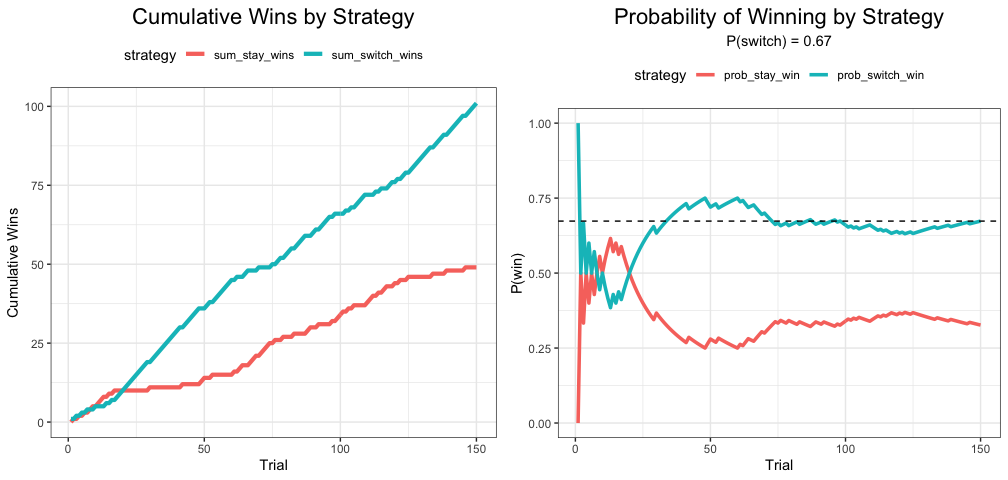
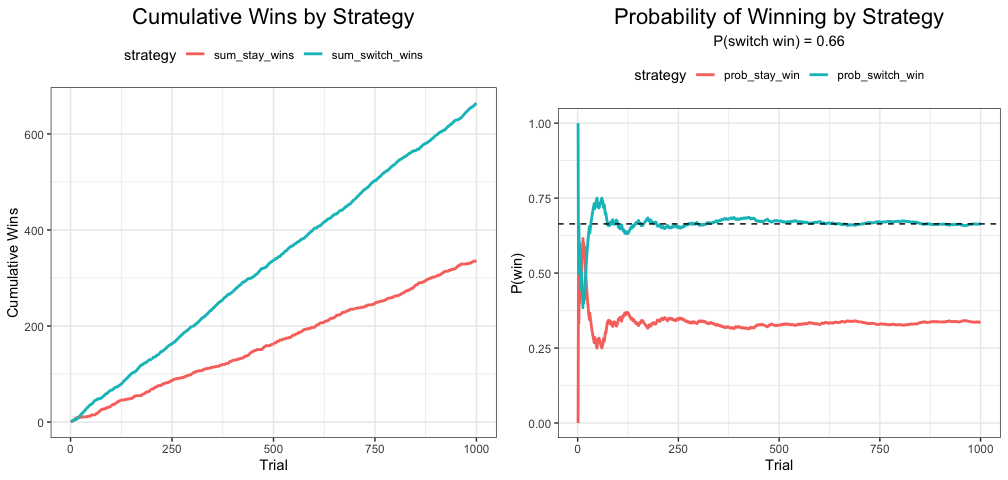
Simplify code
- update with simpler `mh()` function
- `mh()` -> `mh_switch_win()`
- Use logicals and then sums of logicals in tibble
- remove `doors` object, simply use `sample(1:3, 1)`
- expand print width for results tibble

diff --git a/README.md b/README.md
@@ -68,21 +68,19 @@ Perhaps the easiest way to visualize the solution is through simulation.
 ### Code
 
 ``` r
-# run a single Monty-Hall trial
-mh <- function() {
-  true       <- sample(doors, 1)                 # true correct door
-  choose     <- sample(doors, 1)                 # player's door choice: 1/3
-  notchoose  <- doors[doors != choose]           # doors not chosen
-  switch_win <- as.numeric(true %in% notchoose)  # if truth not chosen; win by switching
-  switch_win
+# Single Monty-Hall trial; win by switching?
+mh_switch_win <- function() {
+  true   <- sample(1:3, 1)     # true correct door; 3 possible doors
+  choose <- sample(1:3, 1)     # player's door choice: 1/3
+  # if player choses incorrect door; player wins by switching (TRUE/FALSE)
+  true != choose
 }
 
-doors   <- LETTERS[1:3]                          # doors 'A', 'B', and 'C'
-trials  <- 150                                   # number of trials
+trials  <- 1000                        # number of trials
 sim_res <- tibble::tibble(
   n_sim           = seq_len(trials),
-  switch_win      = replicate(n = trials, mh()),
-  stay_win        = 1 - switch_win,
+  switch_win      = replicate(n = trials, mh_switch_win()),
+  stay_win        = !switch_win,
   sum_switch_wins = cumsum(switch_win),
   sum_stay_wins   = cumsum(stay_win),
   prob_switch_win = sum_switch_wins / (sum_switch_wins + sum_stay_wins),
@@ -91,25 +89,26 @@ sim_res <- tibble::tibble(
 
 # simulation results
 sim_res
-#> # A tibble: 150 x 7
-#>    n_sim switch_win stay_win sum_switch_wins sum_stay_wins prob_switch_win
-#>    <int>      <dbl>    <dbl>           <dbl>         <dbl>           <dbl>
-#>  1     1          1        0               1             0           1    
-#>  2     2          0        1               1             1           0.5  
-#>  3     3          1        0               2             1           0.667
-#>  4     4          0        1               2             2           0.5  
-#>  5     5          1        0               3             2           0.6  
-#>  6     6          0        1               3             3           0.5  
-#>  7     7          1        0               4             3           0.571
-#>  8     8          0        1               4             4           0.5  
-#>  9     9          0        1               4             5           0.444
-#> 10    10          1        0               5             5           0.5  
-#> # … with 140 more rows, and 1 more variable: prob_stay_win <dbl>
+#> # A tibble: 1,000 x 7
+#>    n_sim switch_win stay_win sum_switch_wins sum_stay_wins prob_switch_win prob_stay_win
+#>    <int> <lgl>      <lgl>              <int>         <int>           <dbl>         <dbl>
+#>  1     1 TRUE       FALSE                  1             0           1             0    
+#>  2     2 FALSE      TRUE                   1             1           0.5           0.5  
+#>  3     3 TRUE       FALSE                  2             1           0.667         0.333
+#>  4     4 FALSE      TRUE                   2             2           0.5           0.5  
+#>  5     5 TRUE       FALSE                  3             2           0.6           0.4  
+#>  6     6 FALSE      TRUE                   3             3           0.5           0.5  
+#>  7     7 TRUE       FALSE                  4             3           0.571         0.429
+#>  8     8 FALSE      TRUE                   4             4           0.5           0.5  
+#>  9     9 FALSE      TRUE                   4             5           0.444         0.556
+#> 10    10 TRUE       FALSE                  5             5           0.5           0.5  
+#> # … with 990 more rows
 ```
 
 ### Plot Simulations
 
 ``` r
+# Cumulative wins
 plotsim <- sim_res %>%
   tidyr::pivot_longer(
   cols     = c(sum_switch_wins, sum_stay_wins),
@@ -118,11 +117,11 @@ plotsim <- sim_res %>%
 
 p1 <- plotsim %>%
   ggplot(aes(x = n_sim, y = Wins, color = strategy)) +
-  geom_line(size = 1.5) +
-  ggtitle("Cumulative Wins by Strategy") +
+  geom_line(size = 1) +
   labs(y = "Cumulative Wins", x = "Trial") +
-  theme(legend.position = "top")
+  ggtitle("Cumulative Wins by Strategy")
 
+# Prob winning
 plotsim <- sim_res %>%
   tidyr::pivot_longer(
   cols     = c(prob_switch_win, prob_stay_win),
@@ -131,11 +130,11 @@ plotsim <- sim_res %>%
 
 p2 <- plotsim %>%
   ggplot(aes(x = n_sim, y = prob, color = strategy)) +
-  geom_line(size = 1.25) +
+  geom_line(size = 1) +
   ylim(c(0, 1)) +
   geom_hline(yintercept = sim_res$prob_switch_win[trials], linetype = "dashed") +
   labs(y = "P(win)", x = "Trial",
-       subtitle = sprintf("P(switch) = %0.2f", sim_res$prob_switch_win[trials])) +
+       subtitle = sprintf("P(switch win) = %0.2f", sim_res$prob_switch_win[trials])) +
   ggtitle("Probability of Winning by Strategy")
 
 gridExtra::grid.arrange(p1, p2, ncol = 2)
